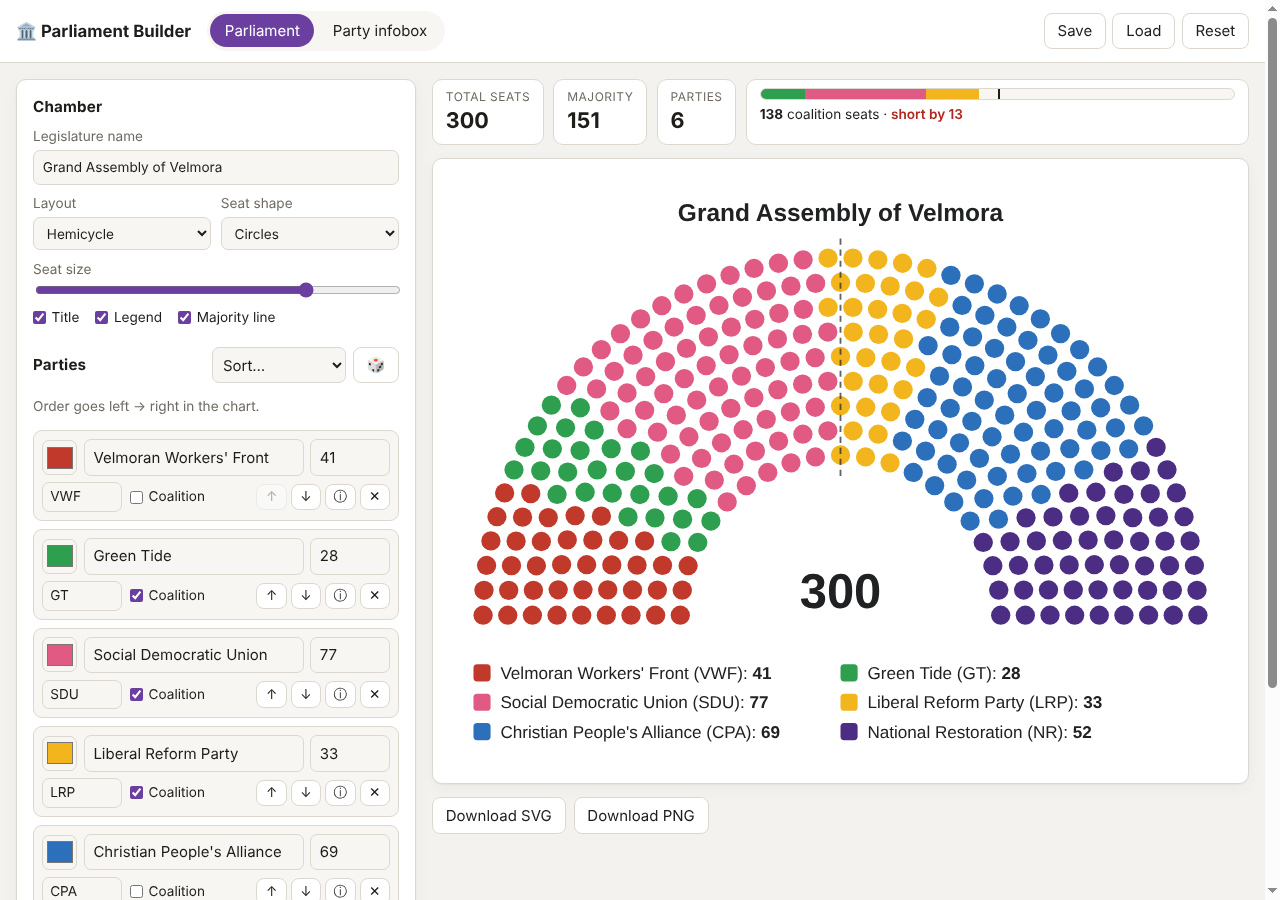
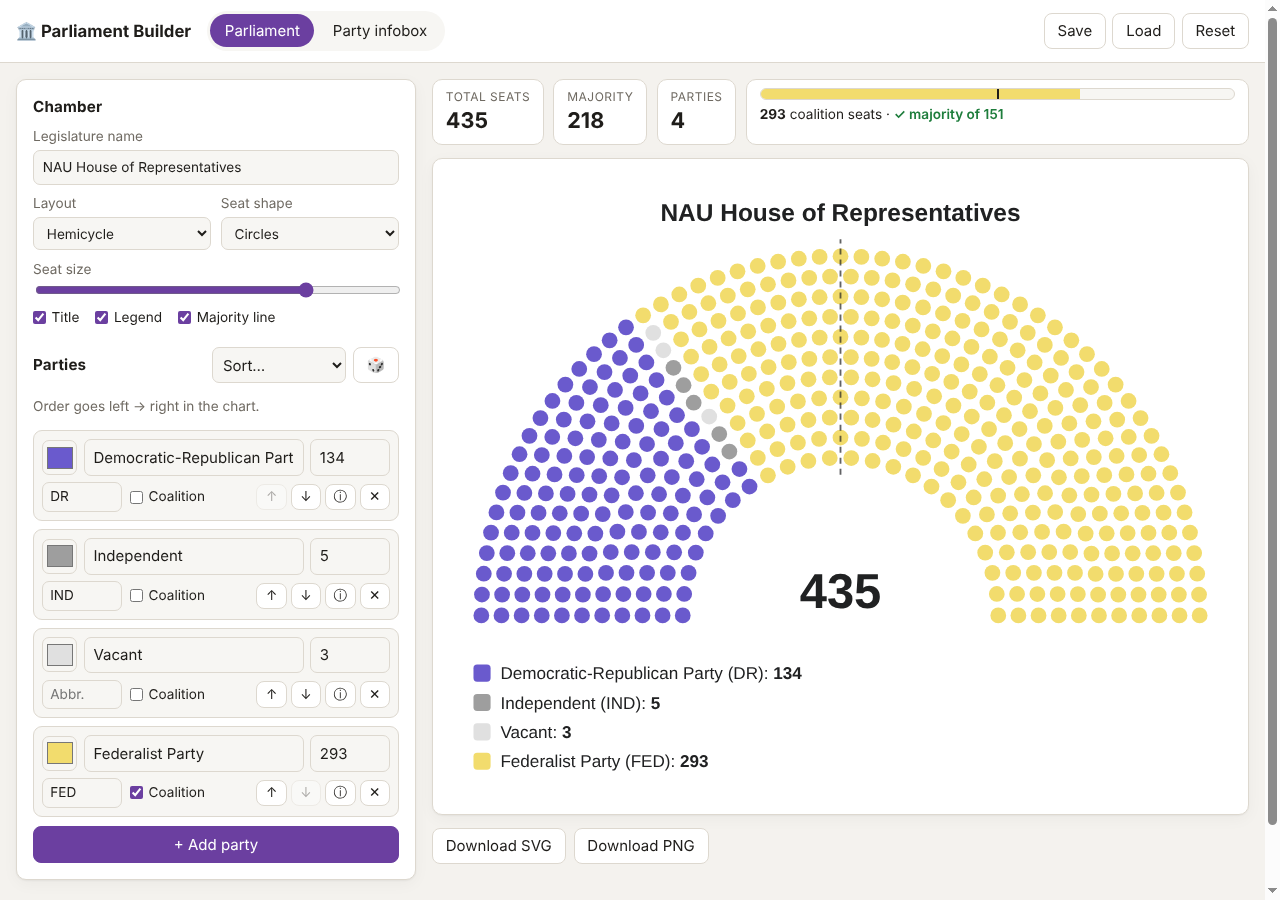
Add undo for random/reset/load and switch default to NAU House
- Random, Reset and Load no longer ask for confirmation; each saves a
  snapshot first and shows an Undo toast. A new replacement clears older
  undo toasts so stale buttons don't linger.
- Remove the now-unused confirm dialog (dialog.js -> toast.js).
- Default parliament is now the NAU House of Representatives: 293
  Federalists, 134 Democratic-Republicans, 5 Independents, 3 vacant.
- Refresh README screenshots.

Claude-Session: https://claude.ai/code/session_01YEyqT6GYSsonwrr33PWms8

diff --git a/js/app.js b/js/app.js
@@ -176,9 +176,11 @@
 
   // Put a deleted party back where it was. Skipped if the party list has since
   // been swapped out (random, reset or load), so it can't leak into a new setup.
+  let undoToasts = [];
+
   function offerUndo(party, index, wasInfoboxParty) {
     const list = st().parties;
-    PB.notify(`Deleted "${party.name}".`, 'info', 7000, {
+    const dismiss = PB.notify(`Deleted "${party.name}".`, 'info', 7000, {
       label: 'Undo',
       onClick: () => {
         if (st().parties !== list || list.some((p) => p.id === party.id)) return;
@@ -190,6 +192,7 @@
         refresh();
       },
     });
+    undoToasts.push(dismiss);
   }
 
   $('#btn-add-party').addEventListener('click', () => {
@@ -204,19 +207,12 @@
     if (last) { last.focus(); last.select(); }
   });
 
-  $('#btn-random').addEventListener('click', async () => {
-    if (
-      st().parties.length &&
-      !(await PB.ask({
-        title: 'Roll a random parliament?',
-        message: 'This replaces your current parties. Save a .json first if you want to keep them.',
-        confirmLabel: 'Roll the dice',
-      }))
-    ) return;
-    const total = [101, 150, 200, 299, 350, 450, 600, 650][Math.floor(Math.random() * 8)];
-    st().parties = PB.randomParties(total);
-    st().ibPartyId = st().parties[0].id;
-    renderAll();
+  $('#btn-random').addEventListener('click', () => {
+    replaceWithUndo('Rolled a random parliament.', () => {
+      const total = [101, 150, 200, 299, 350, 450, 600, 650][Math.floor(Math.random() * 8)];
+      st().parties = PB.randomParties(total);
+      st().ibPartyId = st().parties[0].id;
+    });
   });
 
   $('#sort-select').addEventListener('change', (e) => {
@@ -464,8 +460,8 @@
     const reader = new FileReader();
     reader.onload = () => {
       try {
-        PB.state = PB.normalize(JSON.parse(reader.result));
-        renderAll();
+        const loaded = PB.normalize(JSON.parse(reader.result));
+        replaceWithUndo(`Loaded "${file.name}".`, () => (PB.state = loaded));
       } catch (err) {
         PB.notify('That file doesn\'t look like a Parliament Builder save.', 'error');
       }
@@ -474,17 +470,30 @@
     reader.readAsText(file);
   });
 
-  $('#btn-reset').addEventListener('click', async () => {
-    const ok = await PB.ask({
-      title: 'Reset everything?',
-      message: 'This goes back to the example parliament and throws away your parties and infoboxes.',
-      confirmLabel: 'Reset',
-      danger: true,
-    });
-    if (!ok) return;
-    PB.state = PB.sampleState();
-    renderAll();
+  $('#btn-reset').addEventListener('click', () => {
+    replaceWithUndo('Reset to the example parliament.', () => (PB.state = PB.sampleState()));
   });
+
+  // Swap in a whole new setup (random, reset, load), keeping a snapshot so it
+  // can be undone. Older undo toasts are cleared since they'd no longer apply.
+  function replaceWithUndo(message, apply) {
+    const snapshot = JSON.parse(JSON.stringify(PB.state));
+    undoToasts.forEach((dismiss) => dismiss());
+    undoToasts = [];
+    apply();
+    renderAll();
+    undoToasts.push(
+      PB.notify(message, 'info', 7000, {
+        label: 'Undo',
+        onClick: () => {
+          undoToasts.forEach((dismiss) => dismiss());
+          undoToasts = [];
+          PB.state = snapshot;
+          renderAll();
+        },
+      })
+    );
+  }
 
   function renderAll() {
     fillChamber();

diff --git a/js/state.js b/js/state.js
@@ -49,35 +49,18 @@ window.PB = window.PB || {};
 
   PB.sampleState = () => {
     const parties = [
-      ['Velmoran Workers\' Front', 'VWF', '#c0392b', 41, false],
-      ['Green Tide', 'GT', '#2e9e4f', 28, true],
-      ['Social Democratic Union', 'SDU', '#e05a84', 77, true],
-      ['Liberal Reform Party', 'LRP', '#f2b51d', 33, true],
-      ['Christian People\'s Alliance', 'CPA', '#2c6fbb', 69, false],
-      ['National Restoration', 'NR', '#4b2e83', 52, false],
+      ['Democratic-Republican Party', 'DR', '#6a5acd', 134, false],
+      ['Independent', 'IND', '#9e9e9e', 5, false],
+      ['Vacant', '', '#e0e0e0', 3, false],
+      ['Federalist Party', 'FED', '#f2dc6d', 293, true],
     ].map(([name, short, color, seats, coalition]) => PB.newParty({ name, short, color, seats, coalition }));
 
-    Object.assign(parties[2].info, {
-      abbreviation: 'SDU',
-      leaders: [
-        { title: 'Leader', name: 'Mira Kastell' },
-        { title: 'General Secretary', name: 'Tomas Orvay' },
-      ],
-      founded: '14 March 1921',
-      headquarters: '12 Harbour Street, Port Velmor',
-      youthWing: 'Young Social Democrats',
-      membership: '118,400 (2025)',
-      ideology: 'Social democracy\nPro-Europeanism',
-      position: 'Centre-left',
-      international: 'Progressive Alliance',
-      coloursName: 'Pink',
-      slogan: '"Together, forward"',
-      website: 'https://sdu.example',
-    });
+    // Keep vacant seats off both sides in the Westminster layout.
+    parties[2].bench = 'crossbench';
 
     return {
       legislature: {
-        name: 'Grand Assembly of Velmora',
+        name: 'NAU House of Representatives',
         layout: 'hemicycle',
         shape: 'circle',
         size: 85,
@@ -86,7 +69,7 @@ window.PB = window.PB || {};
         title: true,
       },
       parties,
-      ibPartyId: parties[2].id,
+      ibPartyId: parties[3].id,
     };
   };
 

diff --git a/js/toast.js b/js/toast.js
@@ -1,0 +1,48 @@
+// In-page toasts, so nothing depends on window.alert/confirm
+// (some in-app and embedded browsers block those or auto-dismiss them).
+(function (PB) {
+  let toastBox = null;
+
+  function ensureRoot() {
+    if (toastBox) return;
+    toastBox = document.createElement('div');
+    toastBox.className = 'toasts';
+    toastBox.setAttribute('role', 'status');
+    toastBox.setAttribute('aria-live', 'polite');
+    document.body.appendChild(toastBox);
+  }
+
+  // Short non-blocking message; kind is 'info' or 'error'. An optional action
+  // ({ label, onClick }) adds a button that runs once and closes the toast.
+  PB.notify = (message, kind = 'info', ms = 4000, action = null) => {
+    ensureRoot();
+    const el = document.createElement('div');
+    el.className = `toast toast-${kind}`;
+    const text = document.createElement('span');
+    text.textContent = message;
+    el.appendChild(text);
+
+    let timer;
+    const dismiss = () => {
+      clearTimeout(timer);
+      el.classList.add('leaving');
+      setTimeout(() => el.remove(), 250);
+    };
+
+    if (action) {
+      const btn = document.createElement('button');
+      btn.type = 'button';
+      btn.className = 'toast-action';
+      btn.textContent = action.label;
+      btn.addEventListener('click', () => {
+        dismiss();
+        action.onClick();
+      }, { once: true });
+      el.appendChild(btn);
+    }
+
+    toastBox.appendChild(el);
+    timer = setTimeout(dismiss, ms);
+    return dismiss;
+  };
+})(window.PB);

diff --git a/css/style.css b/css/style.css
@@ -264,36 +264,7 @@ fieldset > button.small { margin-bottom: 0.6rem; }
 
 .foot { text-align: center; padding: 1rem 1rem 2rem; }
 
-/* --- Dialog + toasts ------------------------------------------------------------- */
-.modal-backdrop {
-  position: fixed;
-  inset: 0;
-  z-index: 50;
-  display: flex;
-  align-items: center;
-  justify-content: center;
-  padding: 1rem;
-  background: rgba(0, 0, 0, 0.45);
-}
-.modal-backdrop[hidden] { display: none; }
-
-.modal {
-  width: 100%;
-  max-width: 400px;
-  background: var(--surface);
-  color: var(--text);
-  border: 1px solid var(--border);
-  border-radius: 12px;
-  padding: 1.1rem 1.2rem 1rem;
-  box-shadow: 0 12px 40px rgba(0, 0, 0, 0.25);
-}
-.modal h2 { font-size: 1.05rem; margin: 0 0 0.4rem; }
-.modal p { margin: 0 0 1rem; color: var(--muted); }
-.modal-actions { display: flex; justify-content: flex-end; gap: 0.5rem; }
-
-button.danger-solid { background: var(--bad); border-color: var(--bad); color: #fff; }
-button.danger-solid:hover { border-color: var(--text); }
-
+/* --- Toasts ---------------------------------------------------------------------- */
 .toasts {
   position: fixed;
   bottom: 1rem;

diff --git a/index.html b/index.html
@@ -111,7 +111,7 @@
 
   <script src="https://cdn.jsdelivr.net/npm/html-to-image@1.11.11/dist/html-to-image.js"></script>
   <script src="js/state.js"></script>
-  <script src="js/dialog.js"></script>
+  <script src="js/toast.js"></script>
   <script src="js/parliament.js"></script>
   <script src="js/infobox.js"></script>
   <script src="js/app.js"></script>
